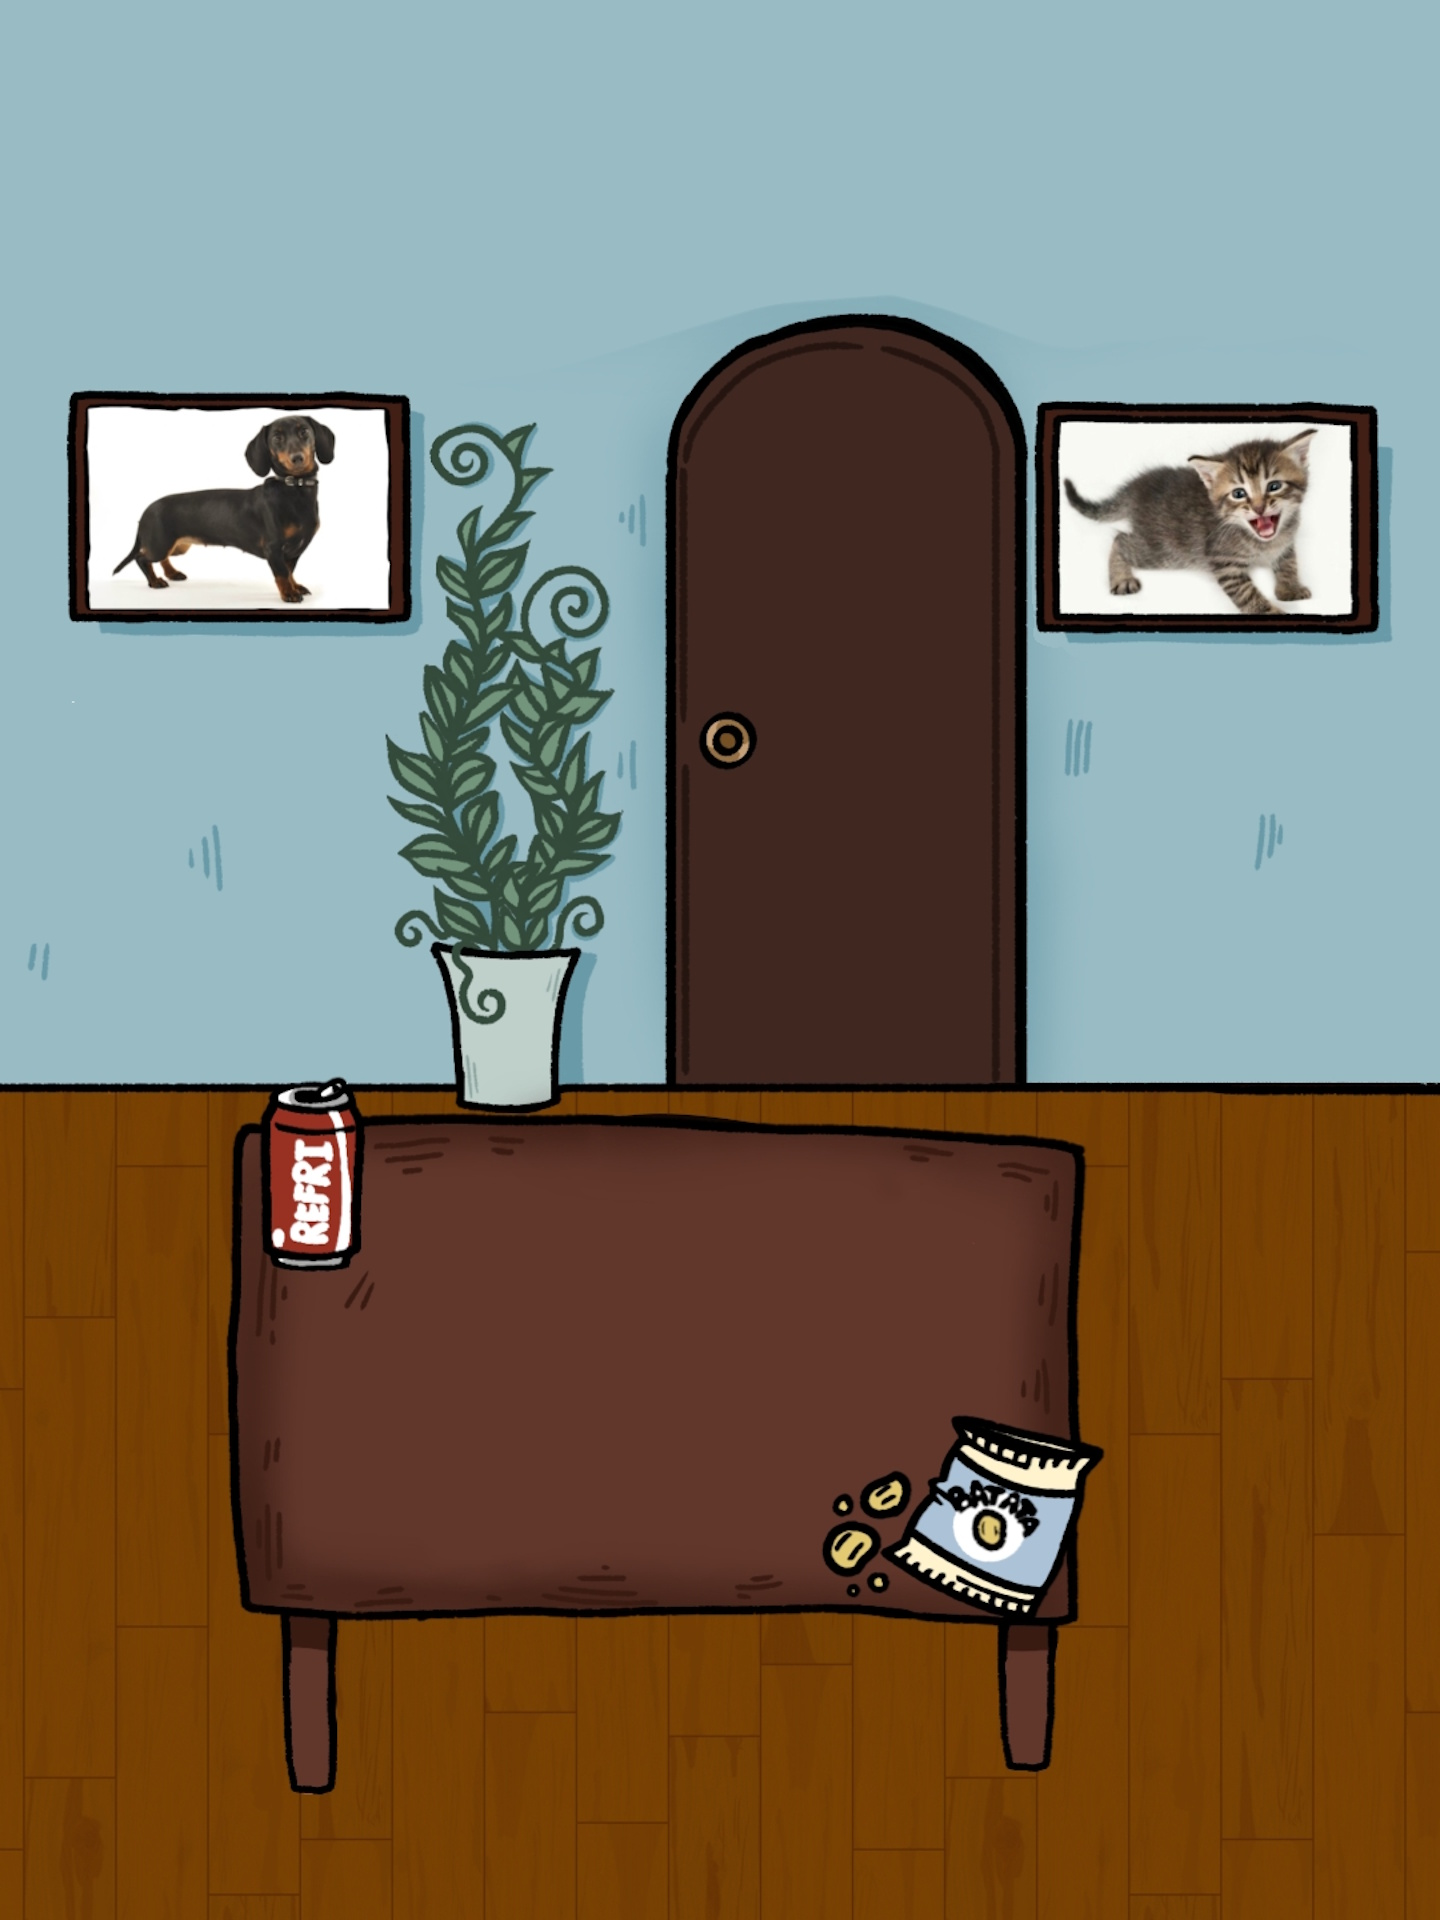
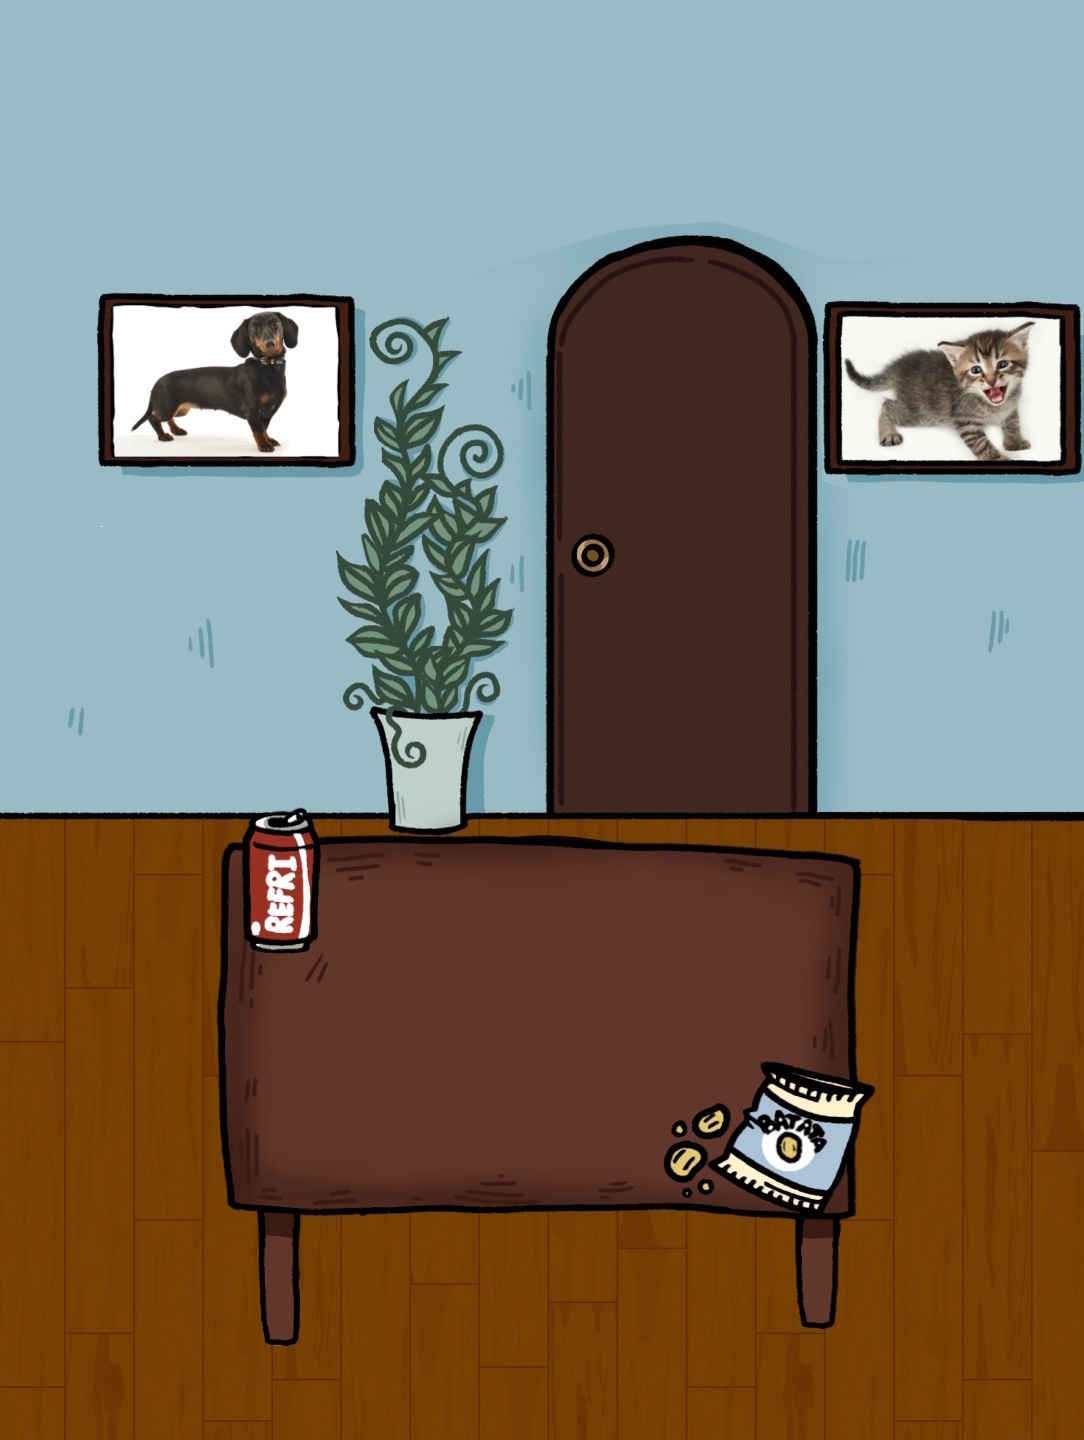
Responsividade do Jokenpo finalizada

diff --git a/src/components/jokenpo/Jokenpo.jsx b/src/components/jokenpo/Jokenpo.jsx
@@ -1,7 +1,7 @@
 import { useState, Activity, useEffect } from "react";
 import { useGameLogic } from "../../store/useGameLogic";
 
-import { HiArrowNarrowDown } from "react-icons/hi";
+import { HiArrowNarrowUp } from "react-icons/hi";
 
 import paperImg from "../../assets/paper.png";
 import stoneImg from "../../assets/stone.png";
@@ -89,22 +89,22 @@ const Jokenpo = () => {
         <div className="flex flex-col justify-center items-center h-screen w-full bg-cover bg-center">
           <button
             type="button"
-            className="cursor-pointer mb-[4em] font-medium absolute top-0"
+            className="cursor-pointer mb-[4em] font-medium left-9 lg:left-0 absolute top-0 lg:translate-y-12"
             onClick={() => setIsPlaying(true)}
           >
-            <img src={startButton} alt="w-16 h-16" className="w-128 h-128 hover:brightness-115" />
+            <img src={startButton} alt="Start Button" className="w-128 h-128 hover:brightness-115" />
           </button>
           <div className="flex">
             <img
               src={scissorsImg}
               alt="Scissors"
-              className="w-24 h-24 translate-y-63 translate-x-15 brightness-50"
+              className="w-24 h-24 md:w-28 md:h-28 lg:w-24 lg:h-24 translate-y-60 translate-x-5 md:translate-y-70 lg:translate-y-55 lg:translate-x-15 xl:translate-y-63 xl:translate-x-15 brightness-50"
             />
-            <img src={paperImg} alt="Paper" className="w-36 h-32 translate-y-40 brightness-50" />
+            <img src={paperImg} alt="Paper" className="w-36 h-32 md:w-40 md:h-36 translate-y-40 -translate-x-7 md:translate-y-45 md:-translate-x-14 lg:translate-y-35 lg:translate-x-1 xl:translate-x-1 xl:translate-y-40 brightness-50" />
             <img
               src={stoneImg}
               alt="Stone"
-              className="w-24 h-24 translate-y-57 -translate-x-15 brightness-50"
+              className="w-24 h-24 md:w-28 md:h-28 translate-y-55 -translate-x-17 md:translate-y-70 md:-translate-x-30 lg:translate-y-54 lg:-translate-x-19 xl:translate-y-57 xl:-translate-x-15 brightness-50"
             />
           </div>
         </div>
@@ -112,28 +112,28 @@ const Jokenpo = () => {
       {/* Quando o usuário clicar em "JOGAR", o mesmo irá escolher as opções */}
       <Activity mode={isPlaying && !playerChoice ? "visible" : "hidden"}>
         <div className="flex flex-col justify-around items-center h-[100%] w-full bg-[url('/images/mobile-jokenpo-bg.jpg')] lg:bg-[url('/images/pc-jokenpo-bg.jpg')] bg-cover bg-center">
-          <h2 className="text-[2.4em] font-sans font-bold text-[#FFF] translate-y-6">FAÇA A SUA ESCOLHA!</h2>
+          <h2 className="text-[2.4em] text-center font-sans font-bold text-[#EFEF03] lg:translate-y-6">FAÇA A SUA ESCOLHA!</h2>
           <div className="flex">
             {/* Escolhas */}
             <button type="button" className="cursor-pointer" onClick={() => setChoice("Scissors")}>
               <img
                 src={scissorsImg}
                 alt="Scissors"
-                className="w-24 h-24 translate-y-24 translate-x-15 hover:brightness-150"
+                className="w-24 h-24 md:w-30 md:h-30 lg:h-24 lg:w-24 xl:w-24 xl:h-24 translate-x-5 lg:translate-y-18 lg:translate-x-15 xl:translate-y-23 xl:translate-x-15 hover:brightness-150"
               />
             </button>
             <button type="button" className="cursor-pointer" onClick={() => setChoice("Paper")}>
               <img
                 src={paperImg}
                 alt="Paper"
-                className="w-36 h-32 hover:brightness-150 translate-y-5"
+                className="w-36 h-32 md:w-40 md:h-36 -translate-y-16 -translate-x-7 lg:translate-y-4 lg:translate-x-1 hover:brightness-150 xl:translate-y-6 xl:translate-x-1"
               />
             </button>
             <button type="button" className="cursor-pointer" onClick={() => setChoice("Stone")}>
               <img
                 src={stoneImg}
                 alt="Stone"
-                className="w-24 h-24 hover:brightness-150 translate-y-18 -translate-x-15"
+                className="w-24 h-24 md:w-28 md:h-28 -translate-y-5 -translate-x-17 lg:translate-y-17 hover:brightness-150 xl:translate-y-18 xl:-translate-x-14"
               />
             </button>
           </div>
@@ -143,51 +143,51 @@ const Jokenpo = () => {
       <Activity mode={isPlaying && playerChoice ? "visible" : "hidden"}>
         <div className="flex flex-col gap-12 justify-around items-center h-[100%] w-full bg-[url('/images/mobile-jokenpo-bg.jpg')] lg:bg-[url('/images/pc-jokenpo-bg.jpg')] bg-cover bg-center">
           {showMessage && (
-            <div className="absolute top-[55%] left-[35%] flex flex-col justify-center items-center w-[15em] h-[6em]">
-            <h2 className="text-[#FFF] font-bold font-sans font-[2em]">
+            <div className="absolute bottom-[18%] md:right-[45%] md:bottom-[20%] lg:bottom-3 xl:bottom-[1%] right-[40%] xl:left-[35%] flex flex-col justify-center items-center w-[15em] h-[6em]">
+            <HiArrowNarrowUp className="w-16 h-16 text-[#A7E63A] lg:text-[3em] text-center"/> 
+            <h2 className="text-[#A7E63A] font-semibold font-sans lg:text-[1.5em] text-center xl:text-[0.8em] text-[1.3em]">
               Sua escolha foi{" "}
               {playerChoice === "Stone" ? "pedra" : playerChoice === "Paper" ? "papel" : "tesoura"}!
             </h2>
-            <HiArrowNarrowDown className="w-16 h-16 text-[#FFF] text-center"/> 
             </div>
           )}
-          <div className="flex gap-16 translate-y-50">
+          <div className="flex gap-16 translate-y-40 lg:translate-y-40">
             <span>
               {runner ? (
                 <img
                   src={closedHand}
                   alt="Choosing..."
-                  className="h-26 w-30 scale-x-[-1] animate-bounce"
+                  className="h-26 w-30 md:h-34 md:w-38 lg:h-26 lg:w-30 scale-x-[-1] animate-bounce"
                 />
               ) : (
                 <img
                   src={playerChoice === "Stone" ? closedHand : playerChoice === "Paper" ? paperHand : scissorsHand}
                   alt="Choosing..."
-                  className="h-26 w-30 scale-x-[-1]"
+                  className="h-26 w-30 md:h-34 md:w-38 lg:h-26 lg:w-30 scale-x-[-1]"
                 />
               )}
             </span>
             <span>
               {runner ? (
-                <img src={closedHand} alt="Choosing..." className="h-26 w-30 animate-bounce" />
+                <img src={closedHand} alt="Choosing..." className="h-26 w-30 md:h-34 md:w-38 lg:h-26 lg:w-30 animate-bounce" />
               ) : (
                  <img
                   src={computerChoice === "Stone" ? closedHand : computerChoice === "Paper" ? paperHand : scissorsHand}
                   alt="Choosing..."
-                  className="h-26 w-30"
+                  className="h-26 w-30 md:h-34 md:w-38 lg:h-26 lg:w-30"
                 />
               )}
             </span>
           </div>
           <div className="absolute top-[20%]">
             <div className="flex flex-col justify-center items-center gap-8">
-              <span className="text-[2.4em] font-sans font-bold text-[#FFF] translate-y-2">
+              <span className="text-[2.4em] font-sans font-bold text-center text-[#EFEF03] translate-y-2">
                 {runner
                   ? null
                   : winner === "USER"
                     ? "VOCÊ VENCEU!"
                     : winner === "COMPUTER"
-                      ? "O COMPUTADOR VENCEU!"
+                      ? "O PC VENCEU!"
                       : "EMPATE!!"}
               </span>
               {!runner && winner && (
